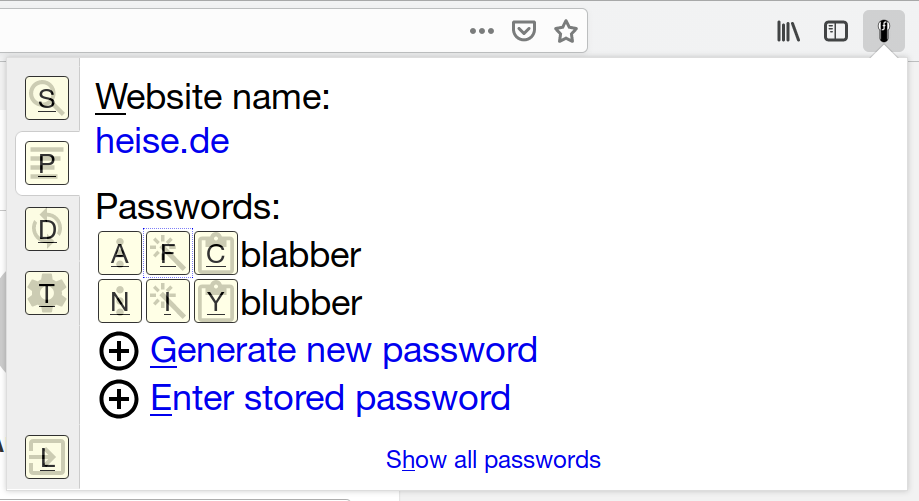
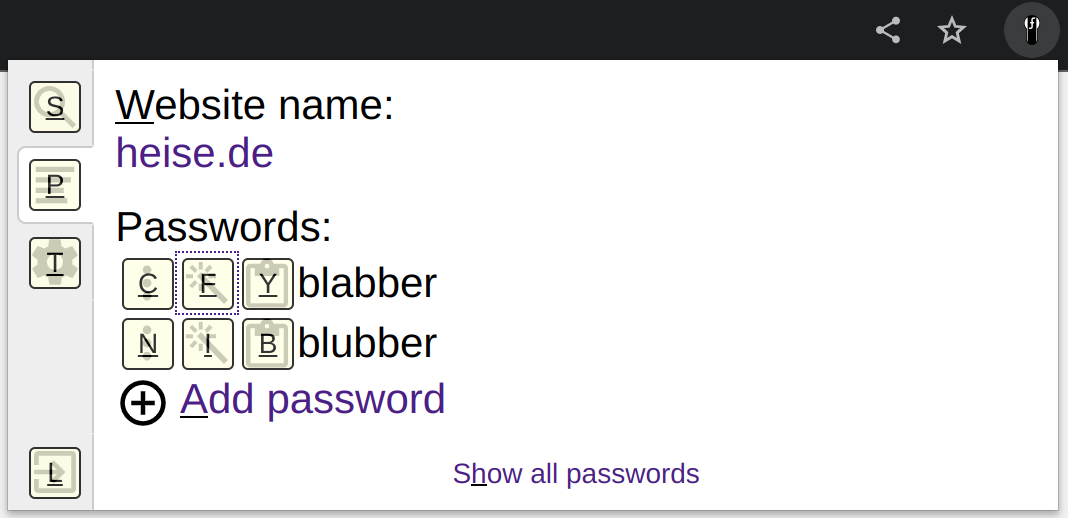
Updated website for PfP 3.x

Changed region(s): [[0.0, 0.0, 1.0, 1.0], [0.0, 0.1497, 0.6094, 0.8383]]

diff --git a/assets/js/index.js b/assets/js/index.js
@@ -29,12 +29,14 @@ document.addEventListener("click", function(event)
 // Try detecting user's browser
 var ua = navigator.userAgent;
 var type = null;
-if (ua.indexOf("OPR/") >= 0)
+/*if (ua.indexOf("OPR/") >= 0)
   type = "opera";
-else if (ua.indexOf("Chromium/") >= 0)
+else */if (ua.indexOf("Chromium/") >= 0 || ua.indexOf("Chrome/") >= 0)
   type = "chrome";
 else if (ua.indexOf("Firefox/") >= 0)
   type = "firefox";
 
-if (type)
-  document.documentElement.className = type;
+if (!type)
+  type = "chrome";
+
+document.documentElement.className = type;

diff --git a/content/documentation/threat-analysis/index.md b/content/documentation/threat-analysis/index.md
@@ -19,19 +19,19 @@ Everybody gets emails claiming that your bank or PayPal or whoever needs you to 
 
 Sometimes, you just have to accept that one of your accounts gets compromised. You trust many websites with your data, yet some don't do a good job protecting it. So occasionally one of these websites will be hacked, and there is nothing you can do about it. Sometimes you will also learn that they stored your password without adequate protection. Without a password manager, this will often turn into a disaster because the same password was used for a number of other accounts. You think the bad guys cannot figure out which ones? Think again.
 
-**How PfP helps**: With PfP you shouldn't need to ever reuse passwords. It's a unique password for each account, so if one account gets compromised the damage stays limited to that account. It's important however that [your master password cannot be guessed](/documentation/choosing-master-password/).
+**How PfP helps**: With PfP you shouldn't need to ever reuse passwords. It's a unique password for each account, so if one account gets compromised the damage stays limited to that account.
 
 ## Physical access to your device
 
 Left your computer unlocked at work? Your laptop got stolen? The passwords stored in your browser should be considered compromised then, accessing these is usually easy.
 
-**How PfP helps**: Most of the time, PfP doesn't even save your passwords to disk. But even stored passwords and metadata like website names are safely encrypted. Accessing PfP data is only possible with your master password. Again, it's important that [your master password cannot be guessed](/documentation/choosing-master-password/). Also, [PfP should be locked](/documentation/autolock/).
+**How PfP helps**: PfP uses the KeePass database format when storing your passwords. With default settings, it will slow down guessing your master password considerably. It’s still important that you [choose a strong main password](/documentation/choosing-main-password/#how-to-choose-a-truly-strong-password). Also, [PfP should be locked](/documentation/autolock/).
 
 ## Shoulder surfing
 
 Having passwords displayed on screen is always problematic. What if somebody is watching over your shoulder right now? But even if you type a password from memory, chances are that this password is simple enough for somebody to remember if they are watching you at that moment.
 
-**How PfP helps**: PfP carefully avoids ever showing passwords on screen. Instead, it will usually fill our login forms automatically. This is the preferred approach because copying passwords to the clipboard might result in you pasting them to a regular text field unintentionally. But even then, passwords generated by PfP are too complicated for humans to remember quickly.
+**How PfP helps**: Usually, PfP will not show any passwords on screen. Instead, it will fill out login forms automatically. This is the preferred approach because copying passwords to the clipboard might result in you pasting them to a regular text field unintentionally. But even then, passwords generated by PfP are too complicated for humans to remember quickly.
 
 ## Malware infestation
 

diff --git a/content/_index.md b/content/_index.md
@@ -5,26 +5,24 @@ subtitle: Your new best way to manage passwords
 
 {{< script "index.js" >}}
 
-**IMPORTANT**: PfP: Pain-free Passwords is no longer being developed. While it might still work for you, no issues will be fixed.
-
-* Only [one password](/documentation/choosing-master-password/) to remember
-* Conveniently integrated into your browser
-* No need to trust us, your data stays on your device (safely encrypted)
-* Most passwords never stored but [generated when needed](/documentation/generated-vs-stored/)
-* Easy to [recover a password](/documentation/recovery-strategies/#recovering-generated-passwords-without-backup) without access to your device
-* Multiple [backup strategies](/documentation/recovery-strategies/) supported
-* [Sync data](/documentation/sync/) between multiple devices easily
-* Free and open source
+* Can be used in parallel with KeePass, KeePassXC or any other tool working with KeePass databases.
+* The extension keeps no data, all data stays in the KeePass database file on your hard drive.
+* Only becomes active when requested, no attack surface towards web pages (good for security).
+* Passwords are locked automatically after a period of inactivity (configurable).
+* Recovery codes can be printed, a secure way to recover passwords after a data loss.
+* Free and open source.
 
 <p>
   <span class="install-container">
-    <a class="install firefox" href="https://addons.mozilla.org/addon/easy-passwords/">Get PfP for Mozilla Firefox</a>
-    <a class="install chrome" href="https://chrome.google.com/webstore/detail/hplhaekjfmjfnfdllkpjpeenlbclffgh">Get PfP for Google Chrome</a>
-    <a class="install opera" href="https://addons.opera.com/extensions/details/easy-passwords/">Get PfP for Opera</a>
+    <a class="install firefox" href="https://addons.mozilla.org/addon/pfp-pain-free-passwords/">Get PfP for Mozilla Firefox</a>
+    <a class="install chrome" href="https://chrome.google.com/webstore/detail/pfp-pain-free-passwords/dkmnfejkonkiccilfpackimaflcijhbj">Get PfP for Google Chrome</a>
+<!--    <a class="install opera" href="https://addons.opera.com/extensions/details/easy-passwords/">Get PfP for Opera</a> -->
     <a class="show-type-selector" href="#">Using a different browser?</a>
   </span>
+<!--
   <span class="install-separator">or</span>
   <a href="/webclient/">Try it online</a>
+-->
 </p>
 
 <div class="type-selector">
@@ -32,6 +30,6 @@ subtitle: Your new best way to manage passwords
   <ul class="type-selector-inner">
     <li><a class="type-selector-link" data-type="firefox" href="#">Mozilla Firefox</a></li>
     <li><a class="type-selector-link" data-type="chrome" href="#">Google Chrome</a></li>
-    <li><a class="type-selector-link" data-type="opera" href="#">Opera</a></li>
+<!--    <li><a class="type-selector-link" data-type="opera" href="#">Opera</a></li> -->
   </ul>
 </div>

diff --git a/content/documentation/recovery-codes/index.md b/content/documentation/recovery-codes/index.md
@@ -1,0 +1,32 @@
+---
+title: Recovery codes
+date: 2018-03-08
+---
+
+What if your passwords database ever gets corrupted? Ideally, you should have a backup. Yet restoring from backup can also fail, and some passwords are too important to take that risk. That’s what recovery codes are for: to provide a printed backup for your most important passwords.
+
+{{< toc >}}
+
+## Creating a paper backup
+
+Usually, you will have too many passwords to print recovery codes for all of them. The easiest solution is marking the truly essential passwords with some tag like “essential.” For that, click the password menu icon (three vertical dots) for the password and choose “Edit password” from the menu. Enter the tag into the respective field and click “Save password.”
+
+Now click “Show all passwords” in the PfP pop-up on any website. On that page select the tag you used under “Filters.” Now only the password with this tag will be displayed and printed.
+
+Click “Show recovery codes” to generate recovery codes. You need to enter a password to protect recovery codes with, typically it will be your main password. That’s it, recovery codes now show up and can be printed:
+
+{{< img src="recovery-codes.png" width="511" alt="Passwords blabber and blubber for the site heise.de. For both passwords, a recovery code shows up: five lines of upper-case letters and digits, in groups of four letters separated with hyphens and colons." />}}
+
+## Restoring a password from paper backup
+
+If you want to use a recovery code, open the website that the password belongs to and click the PfP icon. Now you can click “Add password.”
+
+Instead of generating a password or entering it manually, click “Use recovery code.” Now you’ll have a field to enter the recovery code and the password it has been protected with. Once done, click “Decrypt recovery code” and the decrypted password will be entered into the “Password” field.
+
+*Note*: You don’t need to enter the separators when entering the recovery code. Only enter the letters and digits, the recovery code will be formatted correctly automatically.
+
+## How are recovery codes safe to print?
+
+A recovery code encodes an *encrypted* password. The encryption key is derived from the protection password, exactly like the database encryption key is derived from your main password.
+
+PfP makes sure to use the same protection level for recovery codes as for the password database itself. So as long as your main password is [strong enough that your database cannot be decrypted by an attacker](/documentation/choosing-main-password/#how-to-choose-a-truly-strong-password), the same will be true for recovery codes.

diff --git a/content/documentation/choosing-main-password/index.md b/content/documentation/choosing-main-password/index.md
@@ -1,0 +1,26 @@
+---
+title: "Choosing a main password"
+date: 2018-03-08
+---
+
+Should your passwords database ever fall into the wrong hands (e.g. because your sync storage is compromised), a strong main password will make sure its data cannot be decrypted. Common passwords and dictionary words are too easy to guess, you should go for something better.
+
+So when creating a new database, PfP Native Host application will suggest creating a random passphrase for you. Such a passphrase is both easy to remember and secure, you should normally go with it.
+
+{{< toc >}}
+
+## Why main password strength is important
+
+As long as you are the only person with access to your passwords database, the encryption of the passwords doesn’t really matter. This changes however as soon as you make a backup of the passwords database on some storage service. The service owner now has access to this file, as done anyone compromising the service. Now strong encryption is crucial, as it’s the only thing stopping someone else from accessing your data.
+
+While an encryption key cannot usually be guessed directly, guessing you main password is more realistic. Once the guess is correct, the attackers will be able to derive the encryption key from it and decrypt the data. So it’s important to choose a main password that will take as long as possible to guess.
+
+That’s harder than it sounds. It isn’t sufficient to merely choose a long password with different character classes. For example, `Password123!` will pass most password complexity requirements, yet it is still trivial to guess. The article [Password strength explained](https://palant.info/2023/01/30/password-strength-explained/) provides more details on the topic.
+
+## How to choose a truly strong password
+
+The only way to get a truly strong password is generating one randomly. The issue is: a password like `gv*=52!W` is rather hard to remember.
+
+Our brains are much better at remembering passphrases like `limb emit rank error gala`. This passphrase has the same strength as the password above, but it is much easier to remember.
+
+PfP Native Host application will automatically generate a passphrase for you when you create a new database. It’s using short words only, making the passphrase easy to remember and to type. A five words passphrase is safe enough for most purposes. If you want extra protection, you can add one more word. And seven words are only necessary for people concerned that a nation-state might go after them and throw massive resources at guessing their password.

diff --git a/content/webclient/_index.md b/content/webclient/_index.md
@@ -6,7 +6,9 @@ title: Try PfP online
 
 ## Important notice, please read
 
-You should **never** enter your PfP master password on any website. While this page will store all data only in your browser and safely encrypted, there is no reason why you should trust it. This online version of PfP is for demonstration purposes only, for anything else you should [download your own copy](#install) and use it from your computer.
+This is the *legacy* PfP 2.x version, not the current PfP 3.x. It uses its own data format instead of KeePass databases. Also, while it looks similar, there are conceptual differences. In particular, the legacy version distinguished between generated and stored passwords, the current version doesn’t.
+
+You should **never** enter your PfP main password on any website. While this page will store all data only in your browser and safely encrypted, there is no reason why you should trust it. This online version of PfP is for demonstration purposes only, for anything else you should [download your own copy](#install) and use it from your computer.
 
 Also, the online version has a number of [important limitations](#limitations) that make it less secure than the PfP browser extension. Most importantly, it doesn't have the ability to fill in passwords for you, so it cannot verify that your password is being entered on the right website. It is recommended that you [install the PfP browser extension](/) if possible.
 
@@ -24,4 +26,4 @@ The online version has the following limitations compared to the PfP browser ext
 
 ## Getting your own copy {#install}
 
-Download the `pfp-web-n.n.n.zip` file for our [latest release](https://github.com/palant/pfp/releases/latest). Unpack the archive to some directory and double-click the `index.html` file in that directory. This should open PfP in your browser. Make sure that the page address starts with `file:///` meaning that PfP is being loaded from your computer rather than the web.
+Download the `pfp-web-n.n.n.zip` file for our [latest release](https://github.com/palant/pfp/releases/tag/2.2.5). Unpack the archive to some directory and double-click the `index.html` file in that directory. This should open PfP in your browser. Make sure that the page address starts with `file:///` meaning that PfP is being loaded from your computer rather than the web.

diff --git a/content/contributing/_index.md b/content/contributing/_index.md
@@ -6,7 +6,8 @@ title: Contributing
 
 All the PfP development work happens on GitHub. The relevant repositories are:
 
-* [https://github.com/palant/pfp/](https://github.com/palant/pfp/): source code of PfP extensions and web client
+* [https://github.com/palant/pfp/](https://github.com/palant/pfp/): source code of PfP extensions
+* [https://github.com/palant/pfp-native-host/](https://github.com/palant/pfp-native-host): source code of PfP Native Host application
 * [https://github.com/palant/pfp-website/](https://github.com/palant/pfp-website/): source code of this web site
 
 ## Reporting issues
@@ -17,4 +18,4 @@ You can report PfP bugs and suggest improvements by creating [issues in the PfP 
 
 *Important*: If you plan to spend more than one hour working on PfP code, you better check first whether the feature in question is really desirable and whether the approach you plan to take is the best solution. This is best discussed in a [GitHub issue](https://github.com/palant/pfp/issues).
 
-If you want to contribute code changes to PfP, please fork our repository to your GitHub account. Push the necessary changes to your repository copy and [create a pull request](https://help.github.com/articles/creating-a-pull-request-from-a-fork/) then. Please understand that you will need to sign a [Contributor License Agreement](https://www.clahub.com/agreements/palant/pfp) before your changes can be included in PfP, this makes sure that we can use your code without any legal risk.
+If you want to contribute code changes to PfP, please fork our repository to your GitHub account. Push the necessary changes to your repository copy and [create a pull request](https://help.github.com/articles/creating-a-pull-request-from-a-fork/) then.

diff --git a/content/documentation/autolock/index.md b/content/documentation/autolock/index.md
@@ -1,12 +1,12 @@
 ---
-title: "Why enter the master password so often?"
+title: "Why enter the main password so often?"
 date: 2019-06-10
 image: "autolock.png"
 ---
 
-By default, PfP will lock your passwords after 10 minutes of inactivity. In order to access your passwords, you have to enter the master password again. This is inconvenient, so why is it doing this?
+By default, PfP will lock your passwords after 10 minutes of inactivity. In order to access your passwords, you have to enter the main password again. This is inconvenient, so why is it doing this?
 
-Once you've entered your master password, all passwords stored in PfP are unlocked. Anybody sitting in front of your device at that moment can retrieve any or all of them. That's perfectly fine of course as long as that anybody is you. But what if you left your device unattended? Do you always lock your device when leaving? And if not, what it your co-workers, friends or even children open up PfP while you aren't there?
+Once you've entered your main password, all passwords stored in PfP are unlocked. Anybody sitting in front of your device at that moment can retrieve any or all of them. That's perfectly fine of course as long as that anybody is you. But what if you left your device unattended? Do you always lock your device when leaving? And if not, what it your co-workers, friends or even children open up PfP while you aren't there?
 
 {{< img src="autolock.png" alt="Autolock configuration via PfP options" width="600" />}}
 

diff --git a/content/documentation/keyboard-navigation/index.md b/content/documentation/keyboard-navigation/index.md
@@ -37,9 +37,9 @@ In addition, you can use Ctrl+↑ and Ctrl+↓ to switch tabs in the pop-up conv
 
 Want to press a button or navigate to a text field with a single key combination? Press Alt key and hold. PfP will show you the access keys for all elements.
 
-{{< img src="access_keys.png" alt="Access keys showing up for all elements" width="612" />}}
+{{< img src="access_keys.png" alt="Access keys showing up for all elements" width="534" />}}
 
-Here, the right combination to generate a new password is Alt+G (note the letter "G" being underlined in "Generate new password"). If you want to switch to settings, press Alt+T (note the letter "T" being displayed on top of the "Settings" icon).
+Here, the right combination to add a new password is Alt+A (note the letter "A" being underlined in "Add password"). If you want to switch to settings, press Alt+T (note the letter "T" being displayed on top of the "Settings" icon).
 
 ## Filling in a password with keyboard only
 
